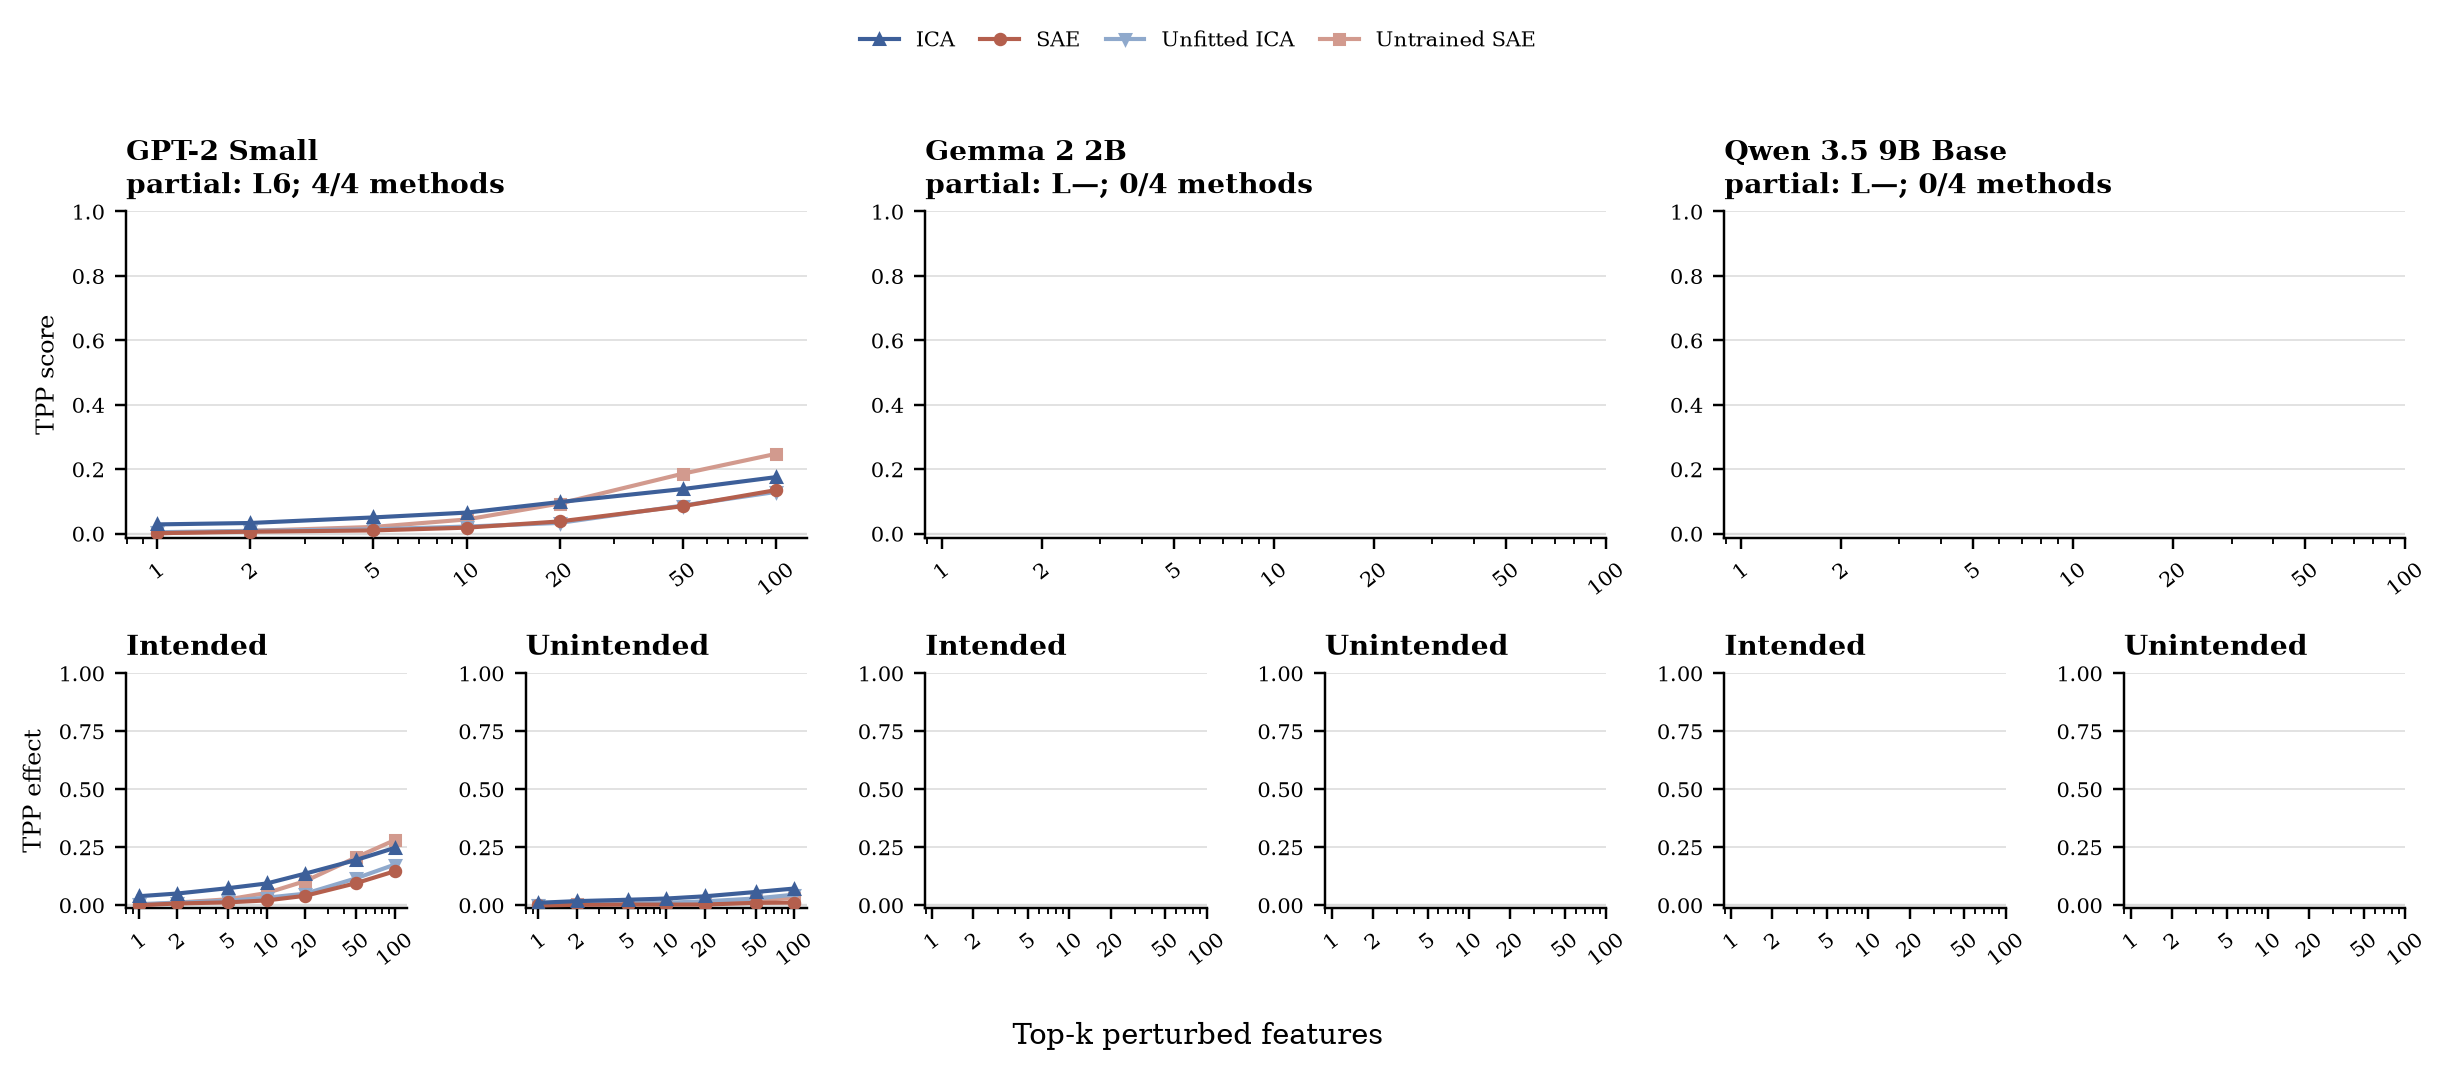
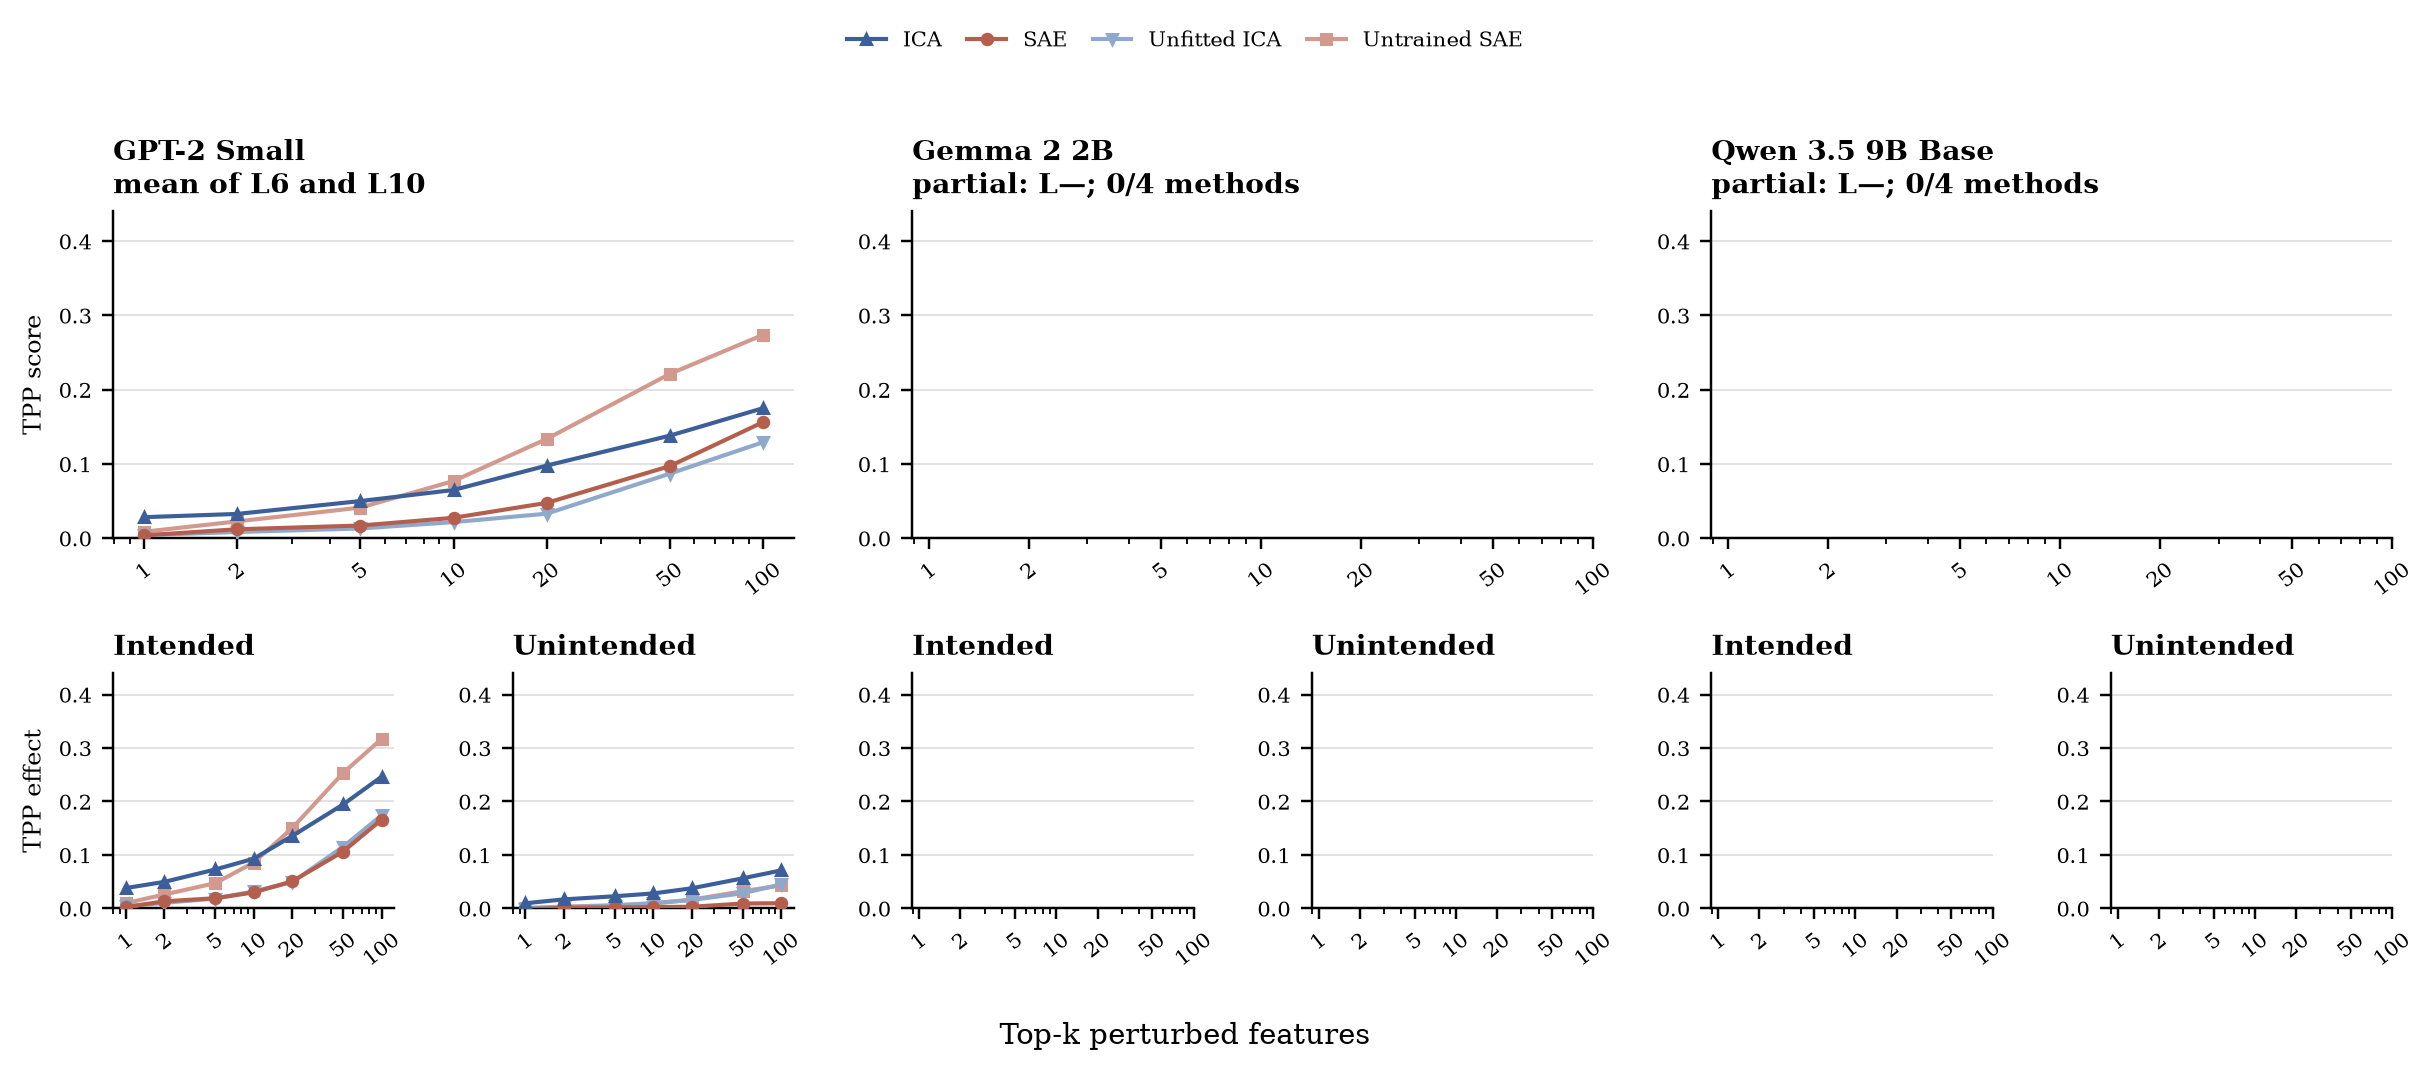
Use profile-oriented ReLU features for TPP ICA

diff --git a/experiments/tpp/worker.py b/experiments/tpp/worker.py
@@ -30,6 +30,7 @@ from icalens.experiments._saebench_worker import (  # noqa: E402
 )
 
 METHODS = ("ica", "unfitted_ica", "sae", "untrained_sae_matched_l0", "pca")
+METHOD_DEFINITION_VERSION = 4
 
 
 @dataclass
@@ -62,6 +63,7 @@ class SignedLinearDictionary(torch.nn.Module):
         dtype: torch.dtype,
         seed: int | None = None,
         orientation: torch.Tensor | None = None,
+        activation: str = "identity",
     ) -> None:
         super().__init__()
         self.register_buffer("center", center.to(torch.float32))
@@ -78,6 +80,9 @@ class SignedLinearDictionary(torch.nn.Module):
         decoder_norms = torch.linalg.vector_norm(decoder, dim=-1).clamp_min(1e-12)
         self.register_buffer("decoder_norms", decoder_norms)
         self.W_dec = torch.nn.Parameter(decoder / decoder_norms[:, None], requires_grad=False)
+        if activation not in {"identity", "relu"}:
+            raise ValueError(f"unsupported linear dictionary activation: {activation!r}")
+        self.activation = activation
         self.row_normalize = bool(snapshot["row_normalize"])
         self.norm_eps = float(snapshot["norm_eps"])
         self.device = torch.device(device)
@@ -89,7 +94,7 @@ class SignedLinearDictionary(torch.nn.Module):
             hook_layer=int(snapshot["layer"]),
             hook_name=f"blocks.{int(snapshot['layer'])}.hook_resid_post",
             architecture=architecture,
-            activation_fn_str="identity",
+            activation_fn_str=activation,
             dtype=str(dtype).removeprefix("torch."),
             device=device,
             random_seed=seed,
@@ -104,6 +109,8 @@ class SignedLinearDictionary(torch.nn.Module):
             )
         score = (work - self.center) @ self.reading.T
         code = score * self.orientation
+        if self.activation == "relu":
+            code = torch.relu(code)
         return code * self.decoder_norms
 
     def decode(self, code: torch.Tensor) -> torch.Tensor:
@@ -217,37 +224,36 @@ def _fastica_initial_unmixing(shape: torch.Size, *, seed: int) -> torch.Tensor:
 
 
 def build_methods(
-    snapshot: dict[str, Any], *, device: str, dtype: torch.dtype
+    snapshot: dict[str, Any], *, methods: tuple[str, ...], device: str, dtype: torch.dtype
 ) -> dict[str, torch.nn.Module]:
     tensors = load_file(snapshot["layer_file"], device="cpu")
     center = tensors["center"].to(torch.float32)
     fitted_reading = tensors["reading_matrix"].to(torch.float64)
     fitted_writing = tensors["writing_matrix"].to(torch.float64)
     tail_signs = tensors["tail_signs"].to(torch.float32)
-    covariance_whitener_gram = fitted_reading.T @ fitted_reading
-    eigenvalues, eigenvectors = torch.linalg.eigh(covariance_whitener_gram)
-    symmetric_whitener = (eigenvectors * eigenvalues.clamp_min(0).sqrt()) @ eigenvectors.T
-    initial_unmixing = _fastica_initial_unmixing(
-        fitted_reading.shape, seed=int(snapshot["fitting_seed"])
-    )
-    initial_reading = initial_unmixing @ symmetric_whitener
-    initial_writing = torch.linalg.pinv(initial_reading)
-    covariance = fitted_writing @ fitted_writing.T
-    _, pca_vectors = torch.linalg.eigh(covariance)
-    pca_reading = pca_vectors.flip(1).T.contiguous()
-    pca_writing = pca_reading.T
-    return {
-        "ica": SignedLinearDictionary(
+    result: dict[str, torch.nn.Module] = {}
+    if "ica" in methods:
+        result["ica"] = SignedLinearDictionary(
             center=center,
             reading=fitted_reading,
             writing=fitted_writing,
             snapshot=snapshot,
-            architecture="fitted_ica",
+            architecture="fitted_ica_profile_oriented_relu",
             device=device,
             dtype=dtype,
             orientation=tail_signs,
-        ),
-        "unfitted_ica": SignedLinearDictionary(
+            activation="relu",
+        )
+    if "unfitted_ica" in methods:
+        covariance_whitener_gram = fitted_reading.T @ fitted_reading
+        eigenvalues, eigenvectors = torch.linalg.eigh(covariance_whitener_gram)
+        symmetric_whitener = (eigenvectors * eigenvalues.clamp_min(0).sqrt()) @ eigenvectors.T
+        initial_unmixing = _fastica_initial_unmixing(
+            fitted_reading.shape, seed=int(snapshot["fitting_seed"])
+        )
+        initial_reading = initial_unmixing @ symmetric_whitener
+        initial_writing = torch.linalg.pinv(initial_reading)
+        result["unfitted_ica"] = SignedLinearDictionary(
             center=center,
             reading=initial_reading,
             writing=initial_writing,
@@ -256,10 +262,19 @@ def build_methods(
             device=device,
             dtype=dtype,
             seed=int(snapshot["fitting_seed"]),
-        ),
-        "sae": TrainedSAE(snapshot, device=device, dtype=dtype),
-        "untrained_sae_matched_l0": UntrainedMatchedL0SAE(snapshot, device=device, dtype=dtype),
-        "pca": SignedLinearDictionary(
+        )
+    if "sae" in methods:
+        result["sae"] = TrainedSAE(snapshot, device=device, dtype=dtype)
+    if "untrained_sae_matched_l0" in methods:
+        result["untrained_sae_matched_l0"] = UntrainedMatchedL0SAE(
+            snapshot, device=device, dtype=dtype
+        )
+    if "pca" in methods:
+        covariance = fitted_writing @ fitted_writing.T
+        _, pca_vectors = torch.linalg.eigh(covariance)
+        pca_reading = pca_vectors.flip(1).T.contiguous()
+        pca_writing = pca_reading.T
+        result["pca"] = SignedLinearDictionary(
             center=center,
             reading=pca_reading,
             writing=pca_writing,
@@ -267,8 +282,8 @@ def build_methods(
             architecture="pca",
             device=device,
             dtype=dtype,
-        ),
-    }
+        )
+    return result
 
 
 def parse_args() -> argparse.Namespace:
@@ -299,7 +314,9 @@ def main() -> None:
             )
 
     snapshot = json.loads(args.snapshot.read_text(encoding="utf-8"))
-    settings = json.loads(args.config.read_text(encoding="utf-8"))["settings"]
+    experiment_config = json.loads(args.config.read_text(encoding="utf-8"))
+    settings = experiment_config["settings"]
+    methods = tuple(experiment_config["methods"])
     tokenizer = AutoTokenizer.from_pretrained(
         snapshot["model_id"], revision=snapshot["model_revision"]
     )
@@ -323,7 +340,7 @@ def main() -> None:
             return HFHookedModel(model, tokenizer, snapshot["evaluation_input_protocol"])
 
     tpp_main.HookedTransformer = Factory
-    encoders = build_methods(snapshot, device="cuda", dtype=dtype)
+    encoders = build_methods(snapshot, methods=methods, device="cuda", dtype=dtype)
     config = ScrAndTppEvalConfig(model_name=snapshot["saebench_model_name"], perform_scr=False)
     config.dataset_names = list(settings["datasets"])
     config.n_values = list(settings["n_values"])
@@ -341,7 +358,7 @@ def main() -> None:
     args.activation_cache.mkdir(parents=True, exist_ok=True)
     tpp_main.run_eval(
         config,
-        selected_saes=[(name, encoders[name]) for name in METHODS],
+        selected_saes=[(name, encoders[name]) for name in methods],
         device="cuda",
         output_path=str(args.output / "saebench"),
         force_rerun=False,
@@ -350,16 +367,16 @@ def main() -> None:
         artifacts_path=str(args.activation_cache),
     )
     method_results = {}
-    for name in METHODS:
+    for name in methods:
         result_path = args.output / "saebench" / "tpp" / f"{name}_custom_sae_eval_results.json"
         if not result_path.is_file():
             raise FileNotFoundError(f"SAEBench did not produce the expected result: {result_path}")
         method_results[f"{name}_custom_sae"] = json.loads(result_path.read_text(encoding="utf-8"))
     payload = {
         "schema_version": 1,
-        "method_definition_version": 3,
+        "method_definition_version": METHOD_DEFINITION_VERSION,
         "methods": method_results,
-        "feature_configs": {name: asdict(encoders[name].cfg) for name in METHODS},
+        "feature_configs": {name: asdict(encoders[name].cfg) for name in methods},
     }
     temporary = args.output / "result.json.tmp"
     temporary.write_text(json.dumps(payload, indent=2, default=str) + "\n", encoding="utf-8")

diff --git a/experiments/tpp/run.py b/experiments/tpp/run.py
@@ -26,6 +26,7 @@ from icalens.experiments.saebench_sparse_probing import (
 )
 
 METHODS = ("ica", "unfitted_ica", "sae", "untrained_sae_matched_l0", "pca")
+METHOD_DEFINITION_VERSION = 4
 DEFAULT_ACTIVATION_CACHE_ROOT = Path("~/Expansion/research/ICA-data/tpp").expanduser()
 
 
@@ -34,8 +35,19 @@ def parse_args() -> argparse.Namespace:
     parser.add_argument("--lens", required=True)
     parser.add_argument("--layers", required=True)
     parser.add_argument("--output", type=Path, required=True)
-    parser.add_argument("--preset", choices=("smoke", "paper"), default="smoke")
+    parser.add_argument("--preset", choices=("smoke", "paper"), default="paper")
     parser.add_argument("--n-values", default=None, help="Comma-separated feature budgets.")
+    parser.add_argument(
+        "--methods",
+        default="ica,sae",
+        help="Comma-separated representations to evaluate, or 'all' (default: ica,sae).",
+    )
+    parser.add_argument(
+        "--seed",
+        type=int,
+        default=None,
+        help="Override the preset random seed for dataset sampling and probe training.",
+    )
     parser.add_argument("--saebench-path", type=Path, default=None)
     parser.add_argument("--cache-dir", type=Path, default=None)
     parser.add_argument(
@@ -67,6 +79,17 @@ def main() -> None:
     backend = resolve_backend(lens.model_id)
     baselines = _resolve_baselines(lens.model_id, "sae,pca")
     settings = settings_for(args.preset, args.n_values)
+    if args.seed is not None:
+        settings["random_seed"] = args.seed
+    method_argument = ",".join(METHODS) if args.methods.strip().lower() == "all" else args.methods
+    methods = tuple(
+        dict.fromkeys(value.strip() for value in method_argument.split(",") if value.strip())
+    )
+    unknown_methods = sorted(set(methods).difference(METHODS))
+    if not methods or unknown_methods:
+        raise ValueError(
+            f"--methods must select from {','.join(METHODS)}; unknown: {unknown_methods}"
+        )
     output = args.output.expanduser().resolve()
     fitting_seeds = {
         str(layer): int(lens._get_layer(layer).fitting["random_state"]) for layer in layers
@@ -80,8 +103,9 @@ def main() -> None:
         "model_id": lens.model_id,
         "model_revision": lens.model_revision,
         "layers": layers,
-        "methods": list(METHODS),
-        "method_definition_version": 3,
+        "methods": list(methods),
+        "method_definition_version": METHOD_DEFINITION_VERSION,
+        "ica_definition": "profile-oriented one-sided ReLU feature per ICA component",
         "evaluation_input_protocol": input_protocol,
         "settings": settings,
         "saebench_backend": asdict(backend),
@@ -139,6 +163,7 @@ def main() -> None:
         if valid_layer_result(
             output / "layers" / f"layer_{layer:02d}" / "result.json",
             settings=settings,
+            methods=methods,
         )
     }
     if len(completed_layers) == len(layers):
@@ -177,6 +202,8 @@ def main() -> None:
                 )
                 snapshot_payload = json.loads(snapshot.read_text(encoding="utf-8"))
                 snapshot_payload["fitting_seed"] = fitting_seeds[str(layer)]
+                snapshot_payload["ica_feature_sides"] = "profile_oriented_positive_half_wave"
+                snapshot_payload["ica_activation"] = "relu"
                 atomic_write_json(snapshot, snapshot_payload)
                 layer_cache_dir = run_cache_dir / f"layer_{layer:02d}"
                 command = [
@@ -215,18 +242,23 @@ def main() -> None:
         run.set_status("complete", complete=True)
 
 
-def valid_layer_result(path: Path, *, settings: dict[str, object]) -> bool:
+def valid_layer_result(
+    path: Path, *, settings: dict[str, object], methods: tuple[str, ...]
+) -> bool:
     if not path.is_file():
         return False
     try:
         payload = json.loads(path.read_text(encoding="utf-8"))
-        if payload.get("schema_version") != 1 or payload.get("method_definition_version") != 3:
+        if (
+            payload.get("schema_version") != 1
+            or payload.get("method_definition_version") != METHOD_DEFINITION_VERSION
+        ):
             return False
-        methods = payload["methods"]
-        expected = {f"{name}_custom_sae" for name in METHODS}
-        if set(methods) != expected:
+        result_methods = payload["methods"]
+        expected = {f"{name}_custom_sae" for name in methods}
+        if set(result_methods) != expected:
             return False
-        for result in methods.values():
+        for result in result_methods.values():
             config = result["eval_config"]
             if list(config["dataset_names"]) != list(settings["datasets"]):
                 return False
@@ -242,7 +274,7 @@ def valid_layer_result(path: Path, *, settings: dict[str, object]) -> bool:
                     value = metrics[f"tpp_threshold_{int(budget)}_{suffix}"]
                     if value is None or not isinstance(value, (int, float)):
                         return False
-        return set(payload["feature_configs"]) == set(METHODS)
+        return set(payload["feature_configs"]) == set(methods)
     except (KeyError, TypeError, ValueError, OSError, json.JSONDecodeError):
         return False
 

diff --git a/experiments/tpp/plot_official.py b/experiments/tpp/plot_official.py
@@ -181,10 +181,8 @@ def main() -> None:
         intended.set_ylabel("TPP effect" if model_index == 0 else "")
 
     all_axes = [axis for group in axes for axis in group]
-    y_min = min(axis.get_ylim()[0] for axis in all_axes)
-    y_max = max(axis.get_ylim()[1] for axis in all_axes)
     for axis in all_axes:
-        axis.set_ylim(y_min, y_max)
+        axis.set_ylim(0, 0.44)
     handles, labels = axes[0][0].get_legend_handles_labels()
     by_label = dict(zip(labels, handles, strict=True))
     ordered_labels = [label for _, label, _, _ in METHODS if label in by_label]
